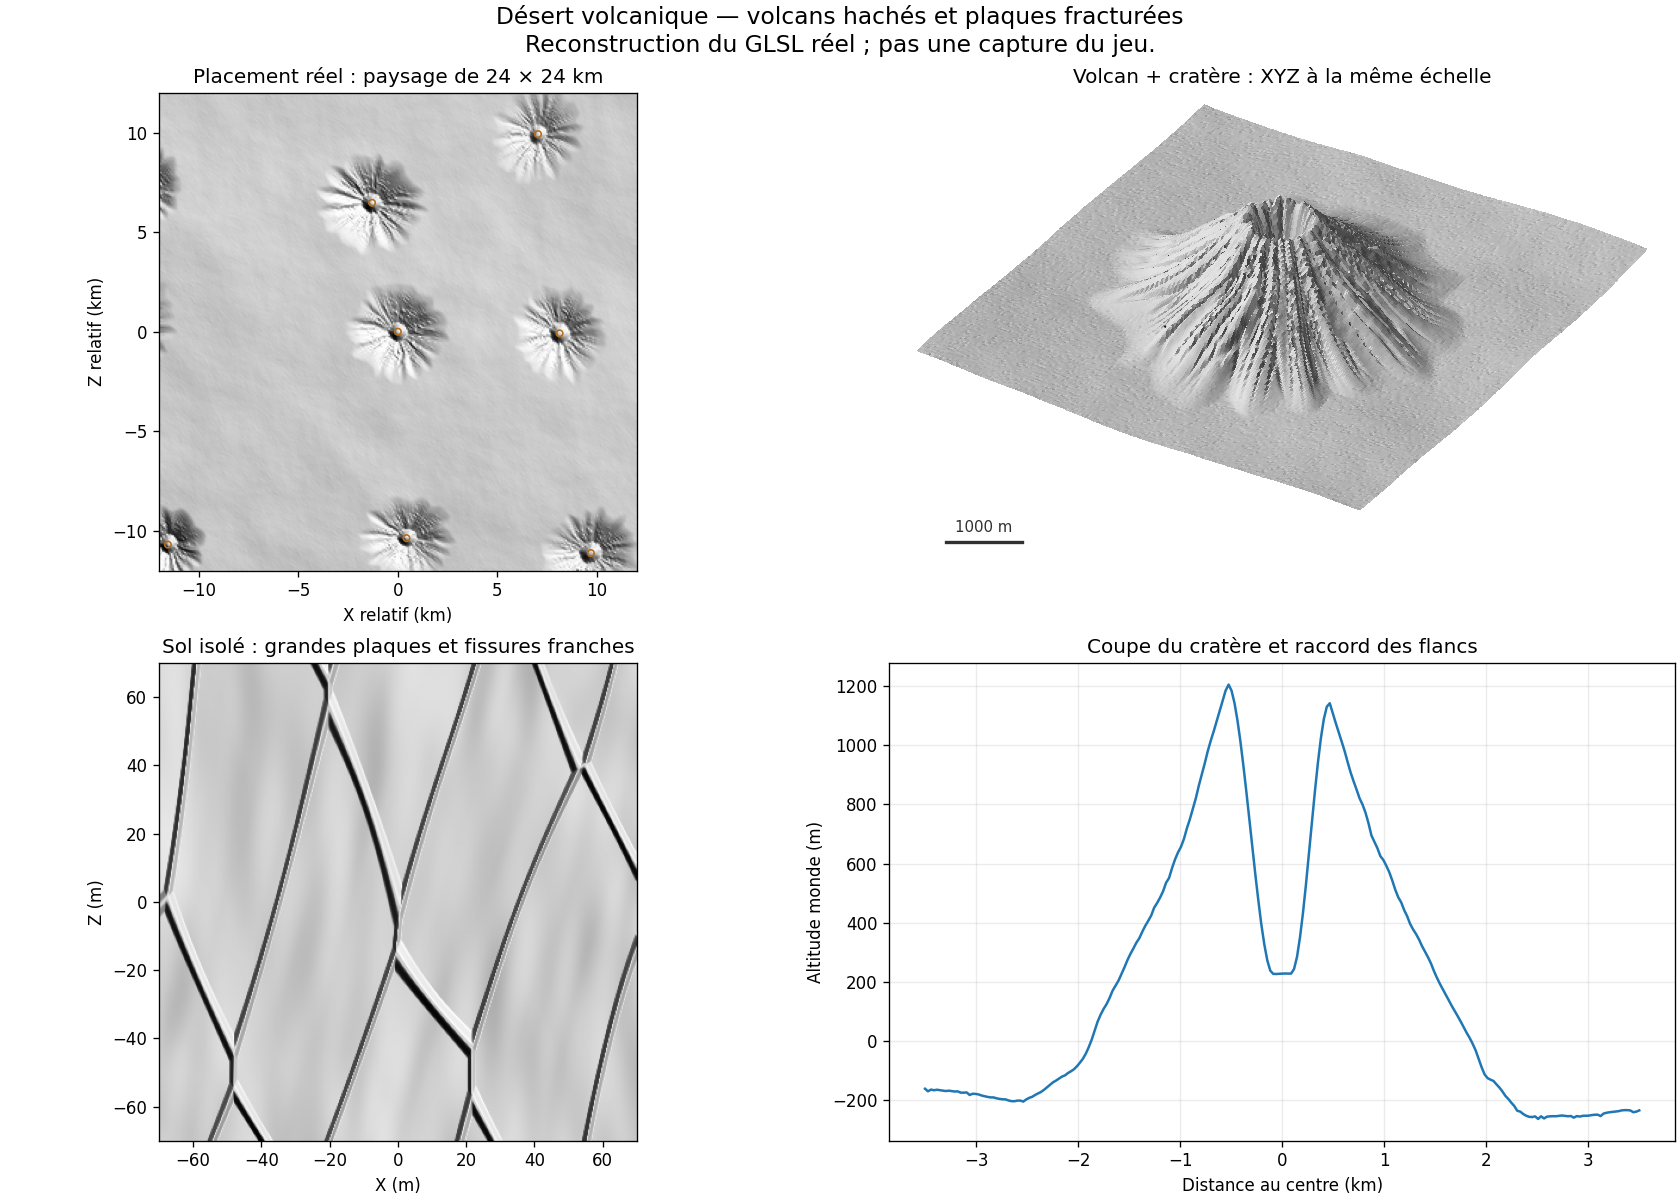
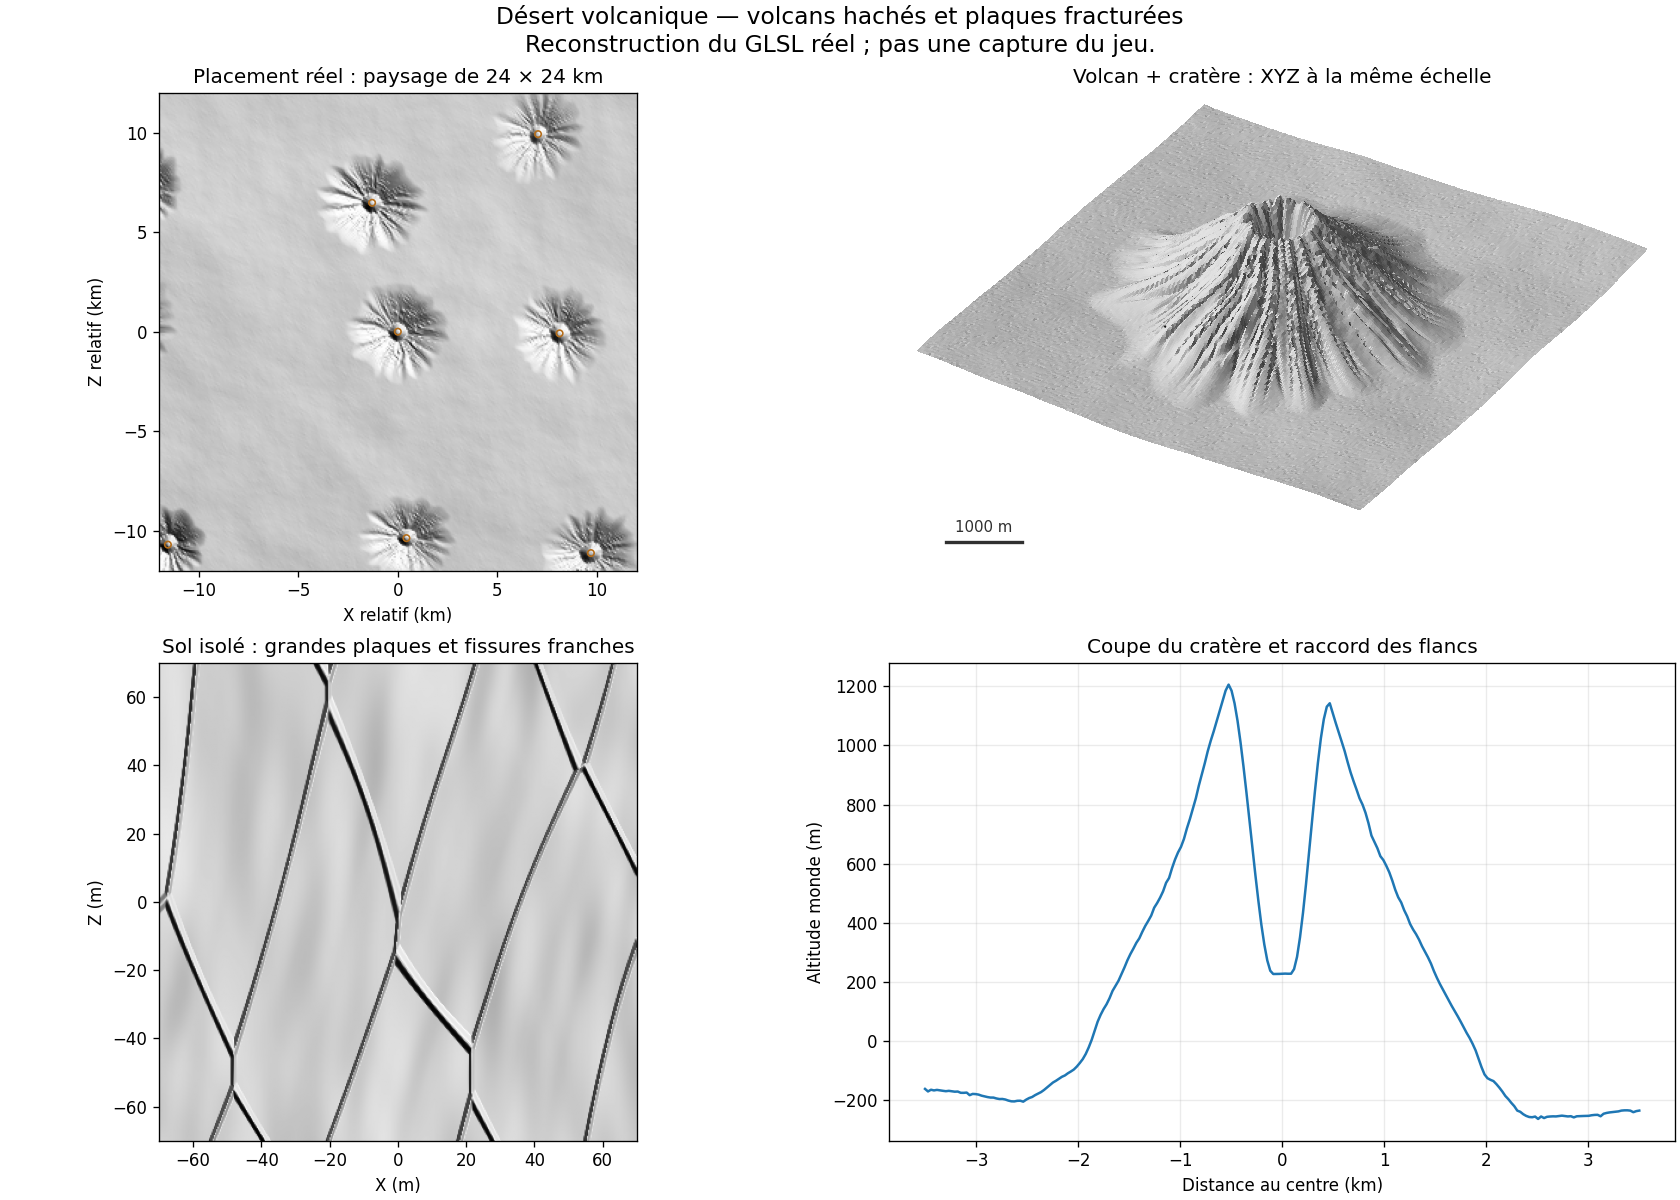
Narrow volcanic ground cracks by a factor of 1.5

diff --git a/docs/VOLCANIC_DESERT.md b/docs/VOLCANIC_DESERT.md
@@ -28,7 +28,7 @@ Dans `ground.glsl` :
 | `VOLCANIC_GROUND_PLATE_SCALE` | 70 m | Échelle des plaques Voronoï |
 | `VOLCANIC_GROUND_WARP_SCALE` | 1 100 m | Échelle de la déformation principale |
 | `VOLCANIC_GROUND_WARP_STRENGTH` | 180 m | Amplitude de cette déformation |
-| `VOLCANIC_GROUND_CRACK_WIDTH` | 4 m | Largeur approximative des fissures |
+| `VOLCANIC_GROUND_CRACK_WIDTH` | ≈ 2,67 m (`4.0 / 1.5`) | Largeur approximative des fissures |
 | `VOLCANIC_GROUND_CRACK_DEPTH` | 6,5 m | Profondeur nominale, variable avec un bruit large |
 
 ## Placement et forme
@@ -50,7 +50,7 @@ des hauteurs pour éviter de doubler artificiellement les sommets.
 Le sol utilise la différence entre les deux premières distances Voronoï, qui
 s'annule sur les limites des plaques. Une rotation et deux déformations de
 coordonnées rendent ces limites moins régulières. Cette différence est une
-approximation de distance : les 4 m indiquent une largeur de départ, pas une
+approximation de distance : les 2,67 m indiquent une largeur de départ, pas une
 largeur géométrique exacte partout. Les fissures sont creusées dans la hauteur,
 sans bourrelet ajouté sur leurs bords, avec une rugosité fine entre les plaques. Leur contribution
 diminue sur les volcans pour laisser les ravines des flancs dominer la silhouette.
